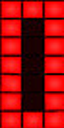
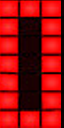
Nice clock hommie

diff --git a/TP3/game/Scoreboard.js b/TP3/game/Scoreboard.js
@@ -16,7 +16,7 @@ class ScoreBoard {
         this.player2Points = 0;
 
         this.turnTime = 0;
-        this.currentTurnTime = 0;
+        this.currentTurnTime = 600;
 
         this.lastUpdateTime = 0;
         // Updates each the timer second
@@ -32,11 +32,20 @@ class ScoreBoard {
      * @return {null}
      */
     initGraphics() {
+        
         //Graphic Elements
-        this.minDigit       = new MyRectangle(this.scene, [0, 1, 1, 0]);
-        this.divider        = new MyRectangle(this.scene, [1, 1, 2, 0]);
-        this.tenSecDigit    = new MyRectangle(this.scene, [2, 1, 3, 0]);
-        this.unitSecDigit   = new MyRectangle(this.scene, [3, 1, 4, 0]);
+        this.minDigit = new MyRectangle(this.scene, [-2, 2, -1, 0]);
+        this.minDigit.setTexAmplification(1,2);
+
+        this.divider = new MyRectangle(this.scene, [-1, 2, 0, 0]);
+        this.divider.setTexAmplification(1,2);
+
+        this.tenSecDigit = new MyRectangle(this.scene, [0, 2, 1, 0]);
+        this.tenSecDigit.setTexAmplification(1,2);
+
+        this.unitSecDigit = new MyRectangle(this.scene, [1, 2, 2, 0]);
+        this.unitSecDigit.setTexAmplification(1,2);
+
 
         // Needed textures - digits and digits divider
         this.digitTextures = [];
@@ -65,17 +74,23 @@ class ScoreBoard {
      * @return {null}
      */
     display() {
+
         this.scene.pushMatrix();
+            this.scene.translate( -3, 0, BOARD_SIZE / 2);
             this.displayScoreboard();
         this.scene.popMatrix();
 
-        /*this.scene.pushMatrix();
-            this.rotate(180 * DEGREE_TO_RAD, 0, 1, 0);
+        this.scene.pushMatrix();
+            this.scene.translate( BOARD_SIZE + 3, 0, BOARD_SIZE / 2);
+            this.scene.rotate(180 * DEGREE_TO_RAD, 0, 1, 0);
             this.displayScoreboard();
-        this.scene.popMatrix();*/
+        this.scene.popMatrix();
     }
 
     displayScoreboard() {
+        this.scene.scale(1, 0.6, 0.6);
+        this.scene.rotate(90 * DEGREE_TO_RAD, 0, 1, 0);
+
         this.digitTextures[this.currentUnitSec].apply();
         this.unitSecDigit.display();
 
@@ -100,12 +115,30 @@ class ScoreBoard {
         //if (this.currentTurnTime == null)
 
         if (currTime - this.lastUpdateTime >= this.updateTimeTimer) {
-            this.currentTurnTime++;
+            this.lastUpdateTime = currTime;
+            this.decrementCountDown();
         }
 
-        if (this.currentTurnTime > this.turnTime) {
+        if (!this.currentTurnTime) {
             //Trocar de jogador no game
         }
+    }
+
+    /**
+     * Decrement the current time of the countdown
+     * 
+     * @return {null}
+     */
+    decrementCountDown() {
+        if (this.currentTurnTime == 0)
+            return;
+
+        let minutes = Math.floor(--this.currentTurnTime / 60);
+        let seconds = this.currentTurnTime % 60;
+
+        this.currentMin = minutes;
+        this.currentTenSec = Math.floor(seconds / 10);
+        this.currentUnitSec = seconds % 10;
     }
 
     /**

diff --git a/TP3/game/Game.js b/TP3/game/Game.js
@@ -164,7 +164,7 @@ class Game {
      */
     update(currTime) {
         this.gameElements.update(currTime);
-        //this.scoreboard.update(currTime);
+        this.scoreboard.update(currTime);
 
         if (this.communication.boardChanged) {
             this.previousBoard = this.board;
